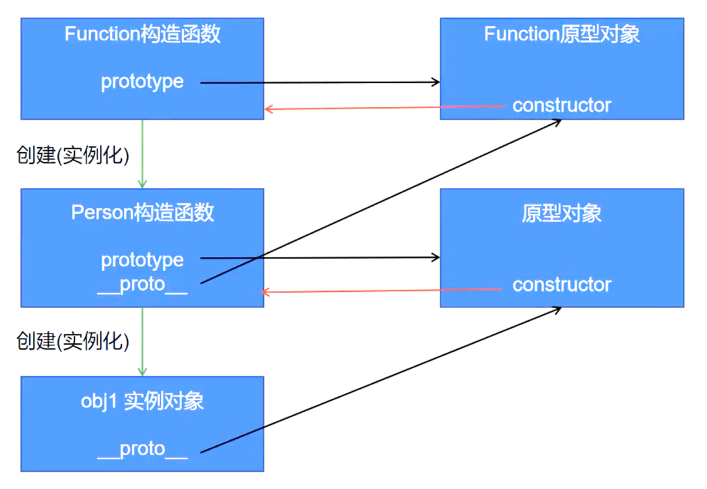
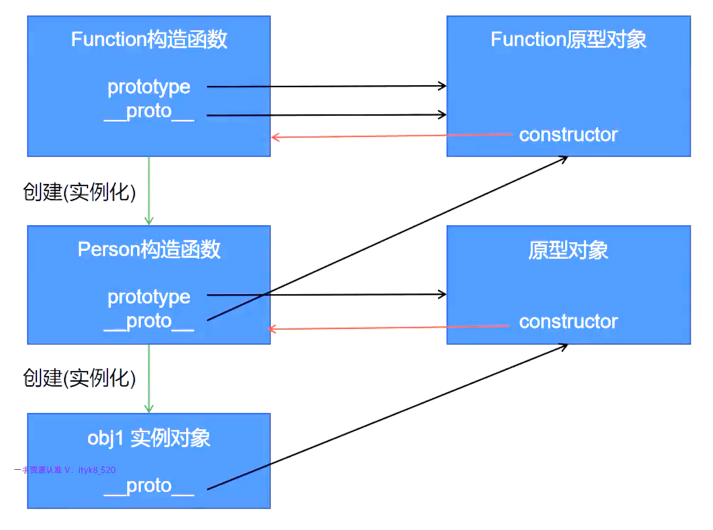
object

Changed region(s): [[0.0, 0.0307, 0.9958, 0.9816]]

diff --git a/01-source/03-JavaScript核心-新特性/14-实例属性-实例放啊-静态属性-静态方法.html b/01-source/03-JavaScript核心-新特性/14-实例属性-实例放啊-静态属性-静态方法.html
@@ -1,0 +1,38 @@
+<!DOCTYPE html>
+<html lang="en">
+<head>
+    <meta charset="UTF-8">
+    <title>14-实例属性-实例方法-静态属性-静态方法</title>
+    <script>
+        function Person (name, age) {
+            this.name = name;
+            this.age = age;
+            this.say = function () {
+                console.log(this.name, this.age);
+            }
+        }
+
+        // 1. 通过实例化的对象person访问的对象或者方法都是实例属性/方法。
+        let person = new Person('Mike', 22);
+        person.say();
+        // 2. 可以通过实例化的对象动态添加属性或方法。
+        person.sex = 'm';
+        person.output = function () {
+            console.log(this.sex);
+        }
+        person.output();
+
+        // 3. 通过构造函数调用的属性/方法称之为静态属性/方法
+        Person.weight = 50;
+        Person.loseWeight = function () {
+            console.log(Person.weight, '----');
+        }
+        console.log(Person.weight);
+        Person.loseWeight();
+
+    </script>
+</head>
+<body>
+
+</body>
+</html>

diff --git a/01-source/03-JavaScript核心-新特性/12-原型链.html b/01-source/03-JavaScript核心-新特性/12-原型链.html
@@ -1,0 +1,27 @@
+<!DOCTYPE html>
+<html lang="en">
+<head>
+    <meta charset="UTF-8">
+    <title>12-原型链</title>
+    <script>
+        function Person(name, age) {
+            this.name = name;
+            this.age = age;
+        }
+        Person.prototype = {
+            constructor: Person,
+            currentValue: 'oldValue',
+        }
+        let person = new Person('Mike', 22);
+        // 1. 给对象不存在的属性赋值，不会查找原型对象中书否存在该属性，而是给对象直接新增一个属性并赋值。
+        person.currentValue = 'newValue';
+        // 2. 对象访问属性的时候，优先访问构造方法中的属性，然后再使用原型对象中的属性。
+        console.log(person.currentValue);
+        // 3. 当构造函数和原型属性中的属性或者方法同名时，可以通过下面的方式访问原型属性中的属性或方法。
+        console.log(person.__proto__.currentValue);
+    </script>
+</head>
+<body>
+
+</body>
+</html>

diff --git a/01-source/03-JavaScript核心-新特性/13-封装性.html b/01-source/03-JavaScript核心-新特性/13-封装性.html
@@ -1,0 +1,30 @@
+<!DOCTYPE html>
+<html lang="en">
+<head>
+    <meta charset="UTF-8">
+    <title>13-封装性</title>
+    <script>
+        function Person(name) {
+            // 1. 默认属性和方法都是公开的
+            this.name = name;
+            // 2. 通过let/var声明的变量则是局部变量，外界无法访问
+            let age = 18;
+            this.setAge = function (age) {
+                if (age >= 0 && age < 180) {
+                    this.age = age;
+                }
+            }
+            this.getAge = function () {
+                return this.age;
+            }
+        }
+
+        let person = new Person('Mike');
+        person.setAge(40);
+        console.log(person.getAge());
+    </script>
+</head>
+<body>
+
+</body>
+</html>

diff --git a/test.html b/test.html
@@ -42,7 +42,7 @@
 
         console.log(person1, person2);*/
 
-
+        console.log(Function.prototype === Function.__proto__);
 
 
     </script>

diff --git a/02-notes/03-JavaScript核心-新特性/19-Function与Object.md b/02-notes/03-JavaScript核心-新特性/19-Function与Object.md
@@ -1,0 +1,39 @@
+# Function函数
+
+1. `JavaScript`中函数是引用类型(对象类型)，既然是对象，所以也是通过构造函数创建出来的，“所有函数”都是通过`Function`构造函数创建出来的实例化对象。
+
+2. `Function`构造函数的`prototype`属性指向`Function`原型对象。
+
+3. `JavaScript`中只要是“函数”就有`prototype`属性，也都有 `__proto__` 属性。
+
+4. `Function`函数的`__proto__`指向它自己的原型对象，即`Function`函数的 `__proto__`等于`prototype`。
+
+<img src="../00-images/03-JavaScript核心-新特性/Function_prototype.png">
+
+5. `Object`函数也是`Function`函数的实例化构造对象。
+
+<img src="../00-images/03-JavaScript核心-新特性/Object.png">
+
+6. `Object`的原型对象也有`__proto__`属性，但是指向`NULL`。
+
+7. 总结：
+    - `Function`函数是所有函数(包括Object)的祖先函数。
+    - 所有构造函数都有 `prototype` 属性，指向它自己的原型对象。
+    - 所有原型属性都有 `constructor` 属性，指向该原型属性对应的构造函数。
+    - 所有函数都是对象。
+    - 所有对象(全部函数、`Object`的原型属性、所有对象的实例化对象)都有 `__proto__` 属性，`Object`的原型属性中的`__proto__`指向`NULL`，`Function`函数的`__proto__`指向自己的原型属性，即`Function.__proto__ === Function.prototype`。而其它全部函数、实例化对象的`__proto__`都指向该函数或对象的构造函数对应的原型对象。
+    - 所有原型对象中的 `__proto__` 都指向`Object`的原型对象。
+   
+8. 全部关系图：
+
+<img src="../00-images/03-JavaScript核心-新特性/prototype_constructor___proto__.png">
+
+9. `prototype`、`constructor`、`__proto__`关系总结：
+   - 所有构造函数都有 `prototype` ，它指向该构造函数的原型对象(原型属性)。
+   - 所有的原型属性(原型对象)都有 `constructor` 属性，它指向对应构造函数。
+   - 所有的构造函数、原型属性(原型对象)、实例化对象都有 `__proto__` 属性，指向分为以下4种情况：
+      - `Function`函数的 `__proto__` 指向自己的原型对象(原型属性)，即 `Function.prototype === Function.__proto__`。
+      - `Object`构造函数的原型对象中的 `__proto__` 指向 `NULL`。
+      - 其它原型对象(原型属性，包括Function)中的 `__proto__` 指向`Object` 原型对象。
+      - 其它构造函数、实例化对象中的 `__proto__` 指向创建该构造函数或对象的原型对象。
+

diff --git a/02-notes/03-JavaScript核心-新特性/20-原型链.md b/02-notes/03-JavaScript核心-新特性/20-原型链.md
@@ -1,0 +1,56 @@
+# 原型链
+
+1. 在通过 `prototype` 优化对象的时候，通过 `Person.prototype` 会覆盖掉默认的 `Person` 原型对象，此时需要手动添加 `constructor` ，来指定 `prototype` 所指向的对象。
+```javascript
+function Person(name, age) {
+    this.name = name;
+    this.age = age;
+}
+Person.prototype = {
+    // 手动指定原型对象中的constructor指向其对应的构造函数
+    construtctor: Person,
+    say: sunction () {
+        console.log(this.name, this.age);
+    }
+}
+let person = new Person('Mike', 22);
+```
+
+2. 对象中方法的查找流程：
+    - 先看自己的对象方法种能找到不，能找到就用自己的。
+    - 如果自己种没有找到，则去父级的原型对象中查找，找到就用。
+    - 如果父级的原型对象中没有，就再往上一级查找，找到就调用。
+    - 如果一直到Object原型对象都没有找到，则报错。
+    
+3. 原型属性注意点：
+    - 如果原型属性中存在和构造方法中同名的属性或者方法，那么对象优先调用构造函数中的数据。 `obj.varName` 会输出构造函数中的 `varName` 属性。如果要访问原型对象中的属性，可以通过 `obj.__proto__.varName`。
+    - 如果给一个对象中的构造函数中不存在的属性、但却在原型对象中存在的属性赋值的时候，并不会去原型中查找，而是直接给构造函数新增一个属性。则构造函数中的属性和原型对象中的属性同时存在。
+```javascript
+function Person(name, age) {
+    this.name = name;
+    this.age = age;
+}
+Person.prototype = {
+    constructor: Person,
+    currentValue: 'oldValue',
+}
+let person = new Person('Mike', 22);
+// 1. 给对象不存在的属性赋值，不会查找原型对象中书否存在该属性，而是给对象直接新增一个属性并赋值。
+person.currentValue = 'newValue';
+// 2. 对象访问属性的时候，优先访问构造方法中的属性，然后再使用原型对象中的属性。
+console.log(person.currentValue);
+// 3. 当构造函数和原型属性中的属性或者方法同名时，可以通过下面的方式访问原型属性中的属性或方法。
+console.log(person.__proto__.currentValue);
+```    
+
+
+
+
+
+
+
+
+
+
+
+

diff --git a/02-notes/03-JavaScript核心-新特性/21-封装性.md b/02-notes/03-JavaScript核心-新特性/21-封装性.md
@@ -1,0 +1,57 @@
+# 封装性
+
+1. 默认情况下，对象的属性和方法都是公开的，只要拿到对象就可以操作对象的属性和方法。
+
+2. 由于构造函数也是一个函数，所以也会开启一个新的作用域。当在构造函数中通过`var`/`let`定义的变量也是局部变量，定义的函数也是局部函数。
+```javascript
+function Person(name) {
+    // 1. 默认属性和方法都是公开的
+    this.name = name;
+    // 2. 通过let/var声明的变量则是局部变量，外界无法访问
+    let age = 18;
+    this.setAge = function (age) {
+        if (age >= 0 && age < 180) {
+            this.age = age;
+        }
+    }
+    this.getAge = function () {
+        return this.age;
+    }
+}
+
+let person = new Person('Mike');
+// 3. 通过暴露出来的公有方法操作私有属性
+person.setAge(40);
+console.log(person.getAge());
+```
+
+3. 这里的私有属性本质是一个局部变量，外部无法访问到。通过共有的方法对该私有属性进行设置与取值。如果不通过暴露出来的公有方法对私有属性进行操作，而直接对私有属性进行赋值，其实是给对象中新增一个不存在的公有属性(全局属性)，赋值和取值操作都是针对这个新的属性，不是针对原来的局部变量(私有属性)。
+```javascript
+function Person(name) {
+    // 1. 默认属性和方法都是公开的
+    this.name = name;
+    // 2. 通过let/var声明的变量则是局部变量，外界无法访问
+    let age = 18;
+    this.setAge = function (age) {
+        if (age >= 0 && age < 180) {
+            this.age = age;
+        }
+    }
+    this.getAge = function () {
+        return this.age;
+    }
+}
+
+let person = new Person('Mike');
+// 3. 不通过暴露出来的公有方法操作私有属性，本质上是新增全局属性
+// 所有的赋值和取值操作都是针对这个新增的全局属性，和原本想要操作的局部属性无关。
+person.age = 20;
+console.log(person.age);
+```
+
+
+
+
+
+
+

diff --git a/02-notes/03-JavaScript核心-新特性/22-实例属性-方法-静态属性-方法.md b/02-notes/03-JavaScript核心-新特性/22-实例属性-方法-静态属性-方法.md
@@ -1,0 +1,36 @@
+# 实例属性/实例方法
+
+1. 在企业开发中，通过实例化的对象访问的属性称之为实例属性，通过实例化的对象访问方法称之为实例方法。
+
+# 静态属性/静态方法
+
+1. 在企业开发中，不仅可以给对象动态地增加属性或方法，也可以给构造函数动态地添加属性和方法。
+
+2. 通过构造函数访问的属性，称之为静态属性。通过构造函数访问的方法，称之为静态方法。
+```javascript
+function Person (name, age) {
+    this.name = name;
+    this.age = age;
+    this.say = function () {
+        console.log(this.name, this.age);
+    }
+}
+
+// 1. 通过实例化的对象person访问的对象或者方法都是实例属性/方法。
+let person = new Person('Mike', 22);
+person.say();
+// 2. 可以通过实例化的对象动态添加属性或方法。
+person.sex = 'm';
+person.output = function () {
+    console.log(this.sex);
+}
+person.output();
+
+// 3. 通过构造函数调用的属性/方法称之为静态属性/方法
+Person.weight = 50;
+Person.loseWeight = function () {
+    console.log(Person.weight, '----');
+}
+console.log(Person.weight);
+Person.loseWeight();
+```
